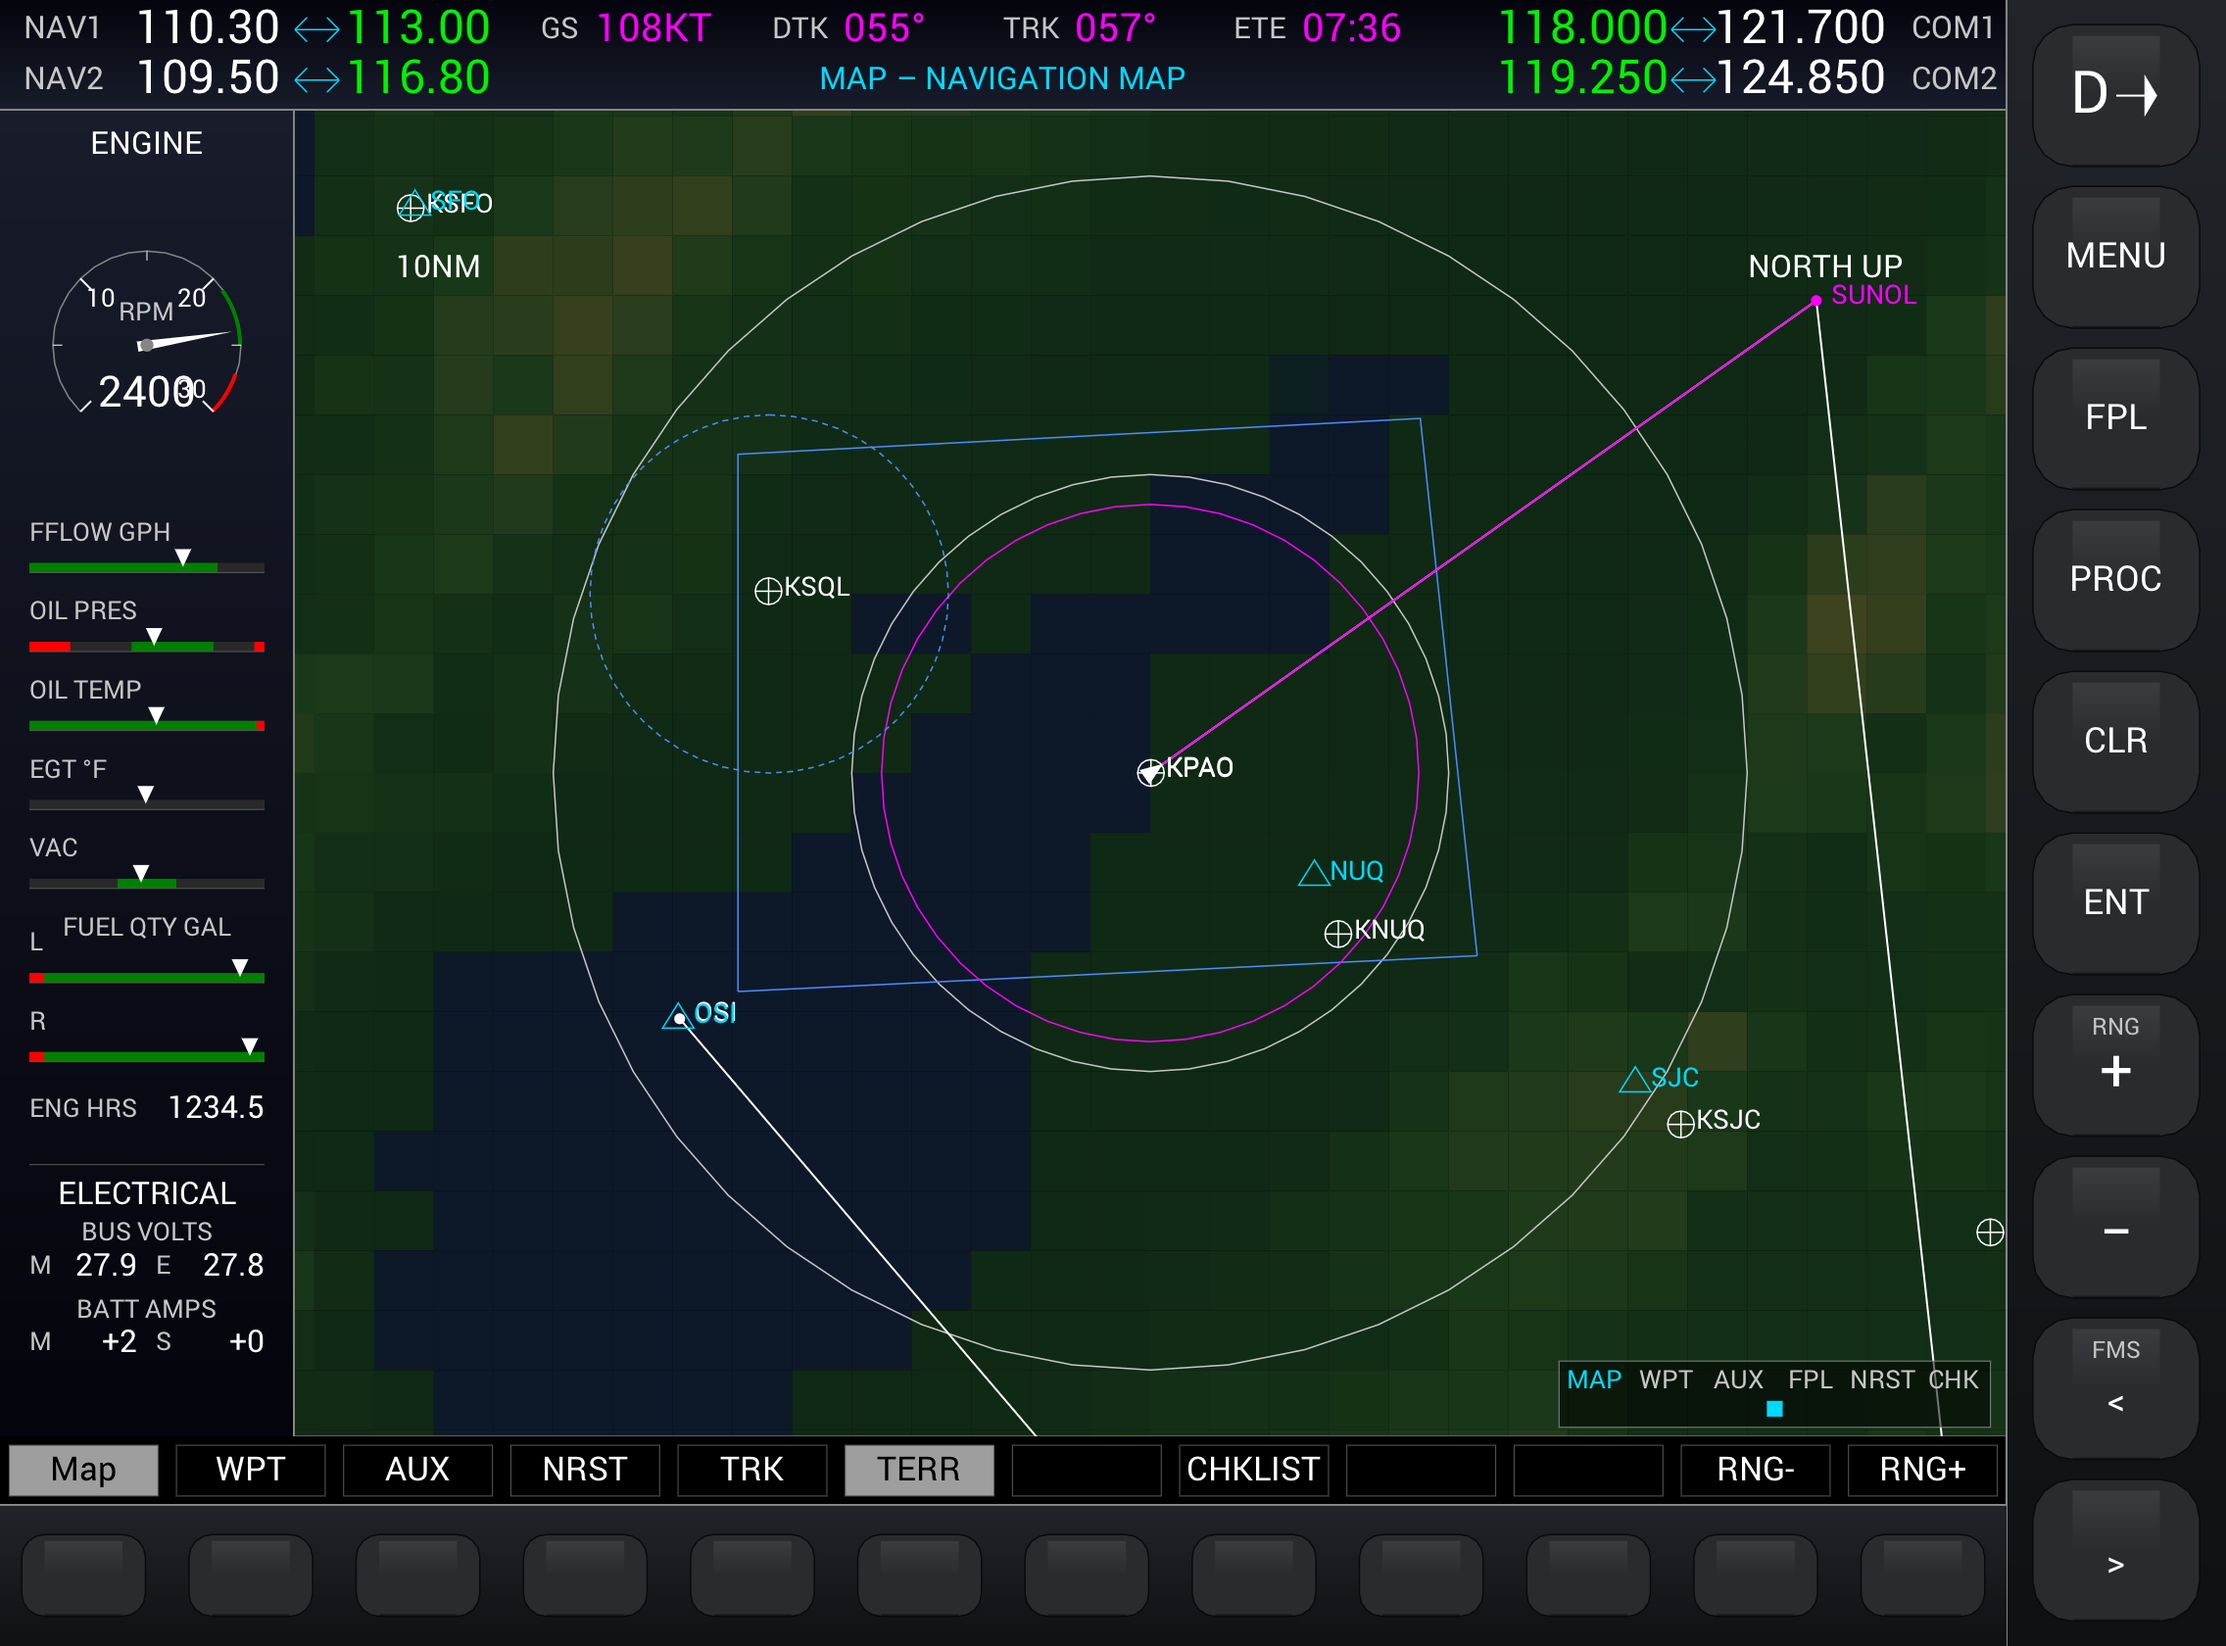
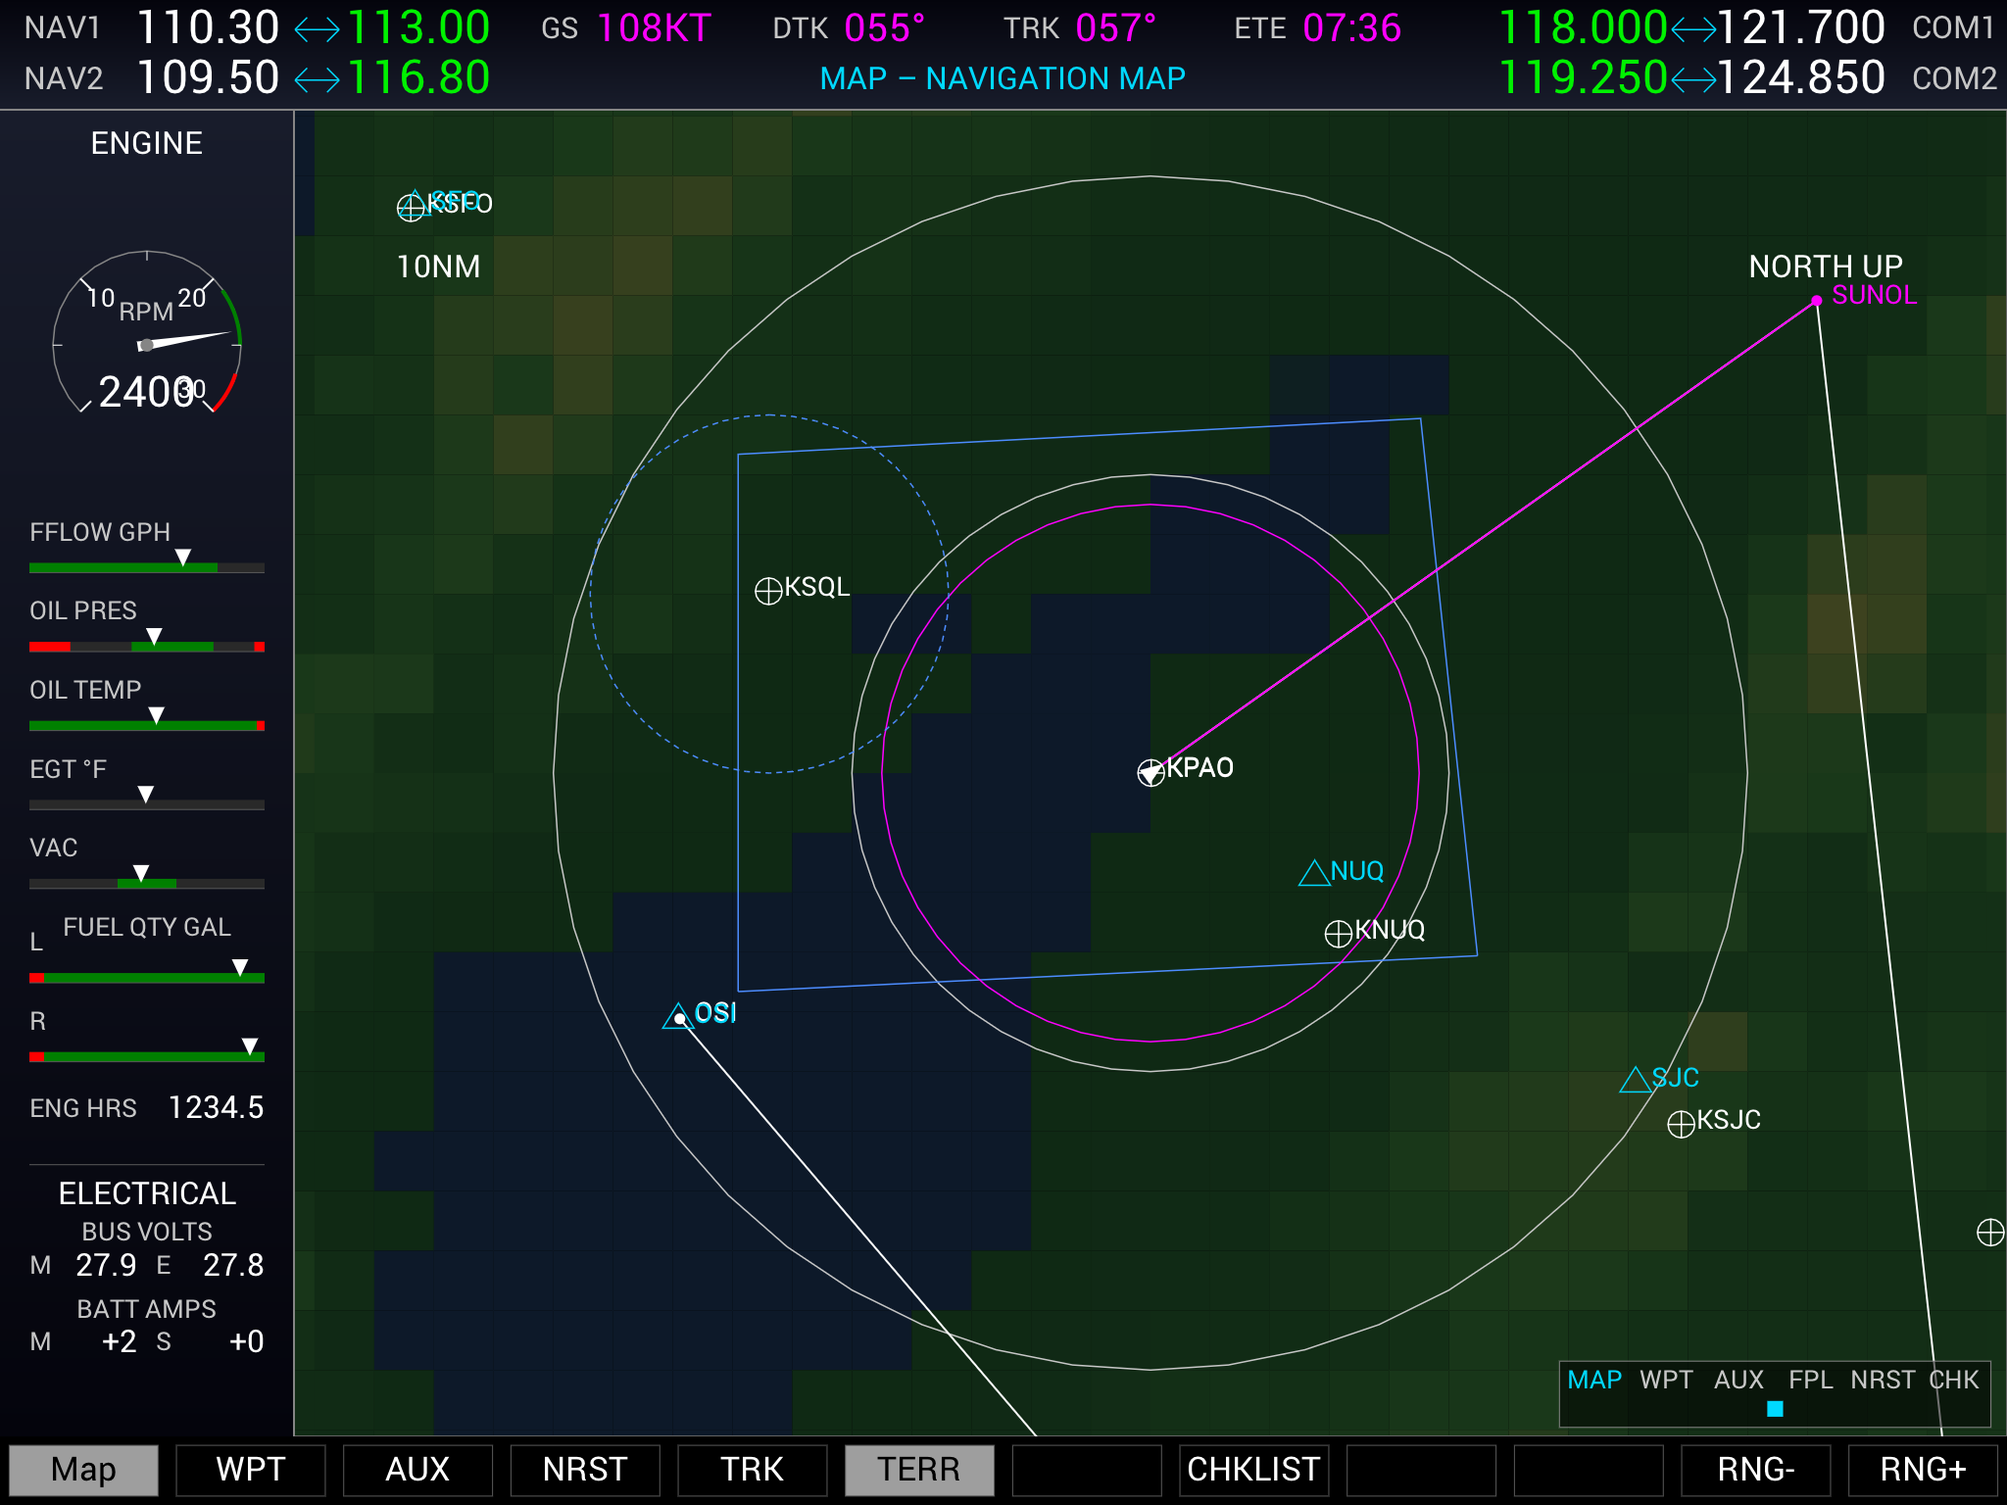
Add --no-bezel screenshot mode and refresh README images.
Screen-only captures omit the hardware key strips for cleaner docs, and the PFD/MFD README screenshots are regenerated without the bezel.

diff --git a/shell-standalone/src/main.cpp b/shell-standalone/src/main.cpp
@@ -245,15 +245,21 @@ void OnMenuToggleBezel(void* context, bool showBezel) {
 // (P6). PPM keeps this dependency-free; convert to PNG with `sips` afterwards.
 // Returns 0 on success. The mock state is advanced by `seconds` so we can pick a
 // clean, representative attitude (seconds = 0 is wings-level, no turbulence).
-int RunScreenshot(const char* path, double seconds, const char* state) {
+// When `fmsPlan` is non-null the mock flies that .fms route (same selector
+// rules as the interactive --fms-plan flag) instead of its built-in demo route.
+int RunScreenshot(const char* path, double seconds, const char* state,
+                  const char* fmsPlan, bool showBezel) {
   glfwWindowHint(GLFW_VISIBLE, GLFW_FALSE);
   glfwWindowHint(GLFW_CONTEXT_VERSION_MAJOR, 3);
   glfwWindowHint(GLFW_CONTEXT_VERSION_MINOR, 2);
   glfwWindowHint(GLFW_OPENGL_FORWARD_COMPAT, GLFW_TRUE);
   glfwWindowHint(GLFW_OPENGL_PROFILE, GLFW_OPENGL_CORE_PROFILE);
 
-  GLFWwindow* window = glfwCreateWindow(kSuiteWidth, kSuiteHeight, kWindowTitle,
-                                        nullptr, nullptr);
+  // Match the framebuffer to the bezel state: the full suite (screen + key
+  // strips) when the bezel is shown, the bare 4:3 screen when it is hidden.
+  GLFWwindow* window = glfwCreateWindow(SuiteWindowWidth(showBezel),
+                                        SuiteWindowHeight(showBezel),
+                                        kWindowTitle, nullptr, nullptr);
   if (!window) {
     std::fprintf(stderr, "Failed to create window\n");
     return 1;
@@ -279,6 +285,17 @@ int RunScreenshot(const char* path, double seconds, const char* state) {
   dataSource.setChecklistSource(&checklists);
   for (int i = 0; i < 400 && !navData.ready(); ++i) {
     std::this_thread::sleep_for(std::chrono::milliseconds(10));
+  }
+
+  // Optional .fms route: once it has loaded, fly it on the mock feed (the
+  // aircraft repositions to the route's first waypoint), matching the
+  // interactive shell's --fms-plan behavior.
+  if (fmsPlan != nullptr) {
+    avionics::FmsPlanStore plan(fmsPlan);
+    for (int i = 0; i < 400 && !plan.loaded(); ++i) {
+      std::this_thread::sleep_for(std::chrono::milliseconds(10));
+    }
+    if (plan.flightPlan().size() >= 2) dataSource.setRoute(plan.flightPlan());
   }
 
   avionics::AvionicsEngine engine(dataSource, renderer, kLabelMock);
@@ -310,7 +327,7 @@ int RunScreenshot(const char* path, double seconds, const char* state) {
     engine.update(seconds);
     engine.pressSoftkey(11);  // Alerts key
     for (int i = 0; i < 30; ++i) engine.update(1.0 / 60.0);
-    RenderSuite(renderer, engine, fbWidth, fbHeight);
+    RenderSuite(renderer, engine, fbWidth, fbHeight, showBezel);
   } else if (state != nullptr && std::strcmp(state, "menu") == 0) {
     // Exercise the softkey menu state machine: open the PFD Options submenu and
     // turn on a couple of display-option toggles so the captured frame shows the
@@ -321,7 +338,7 @@ int RunScreenshot(const char* path, double seconds, const char* state) {
     engine.pressSoftkey(1);  // "SVT" toggle on
     engine.pressSoftkey(2);  // "Wind" toggle on
     for (int i = 0; i < 30; ++i) engine.update(1.0 / 60.0);
-    RenderSuite(renderer, engine, fbWidth, fbHeight);
+    RenderSuite(renderer, engine, fbWidth, fbHeight, showBezel);
   } else if (state != nullptr && std::strcmp(state, "tmrref") == 0) {
     // Timer/References window: open it, start the timer, run it for a bit,
     // then set BARO minimums so the BARO MIN box and tape bug are captured.
@@ -342,7 +359,7 @@ int RunScreenshot(const char* path, double seconds, const char* state) {
       engine.pressBezelKey(avionics::BezelKey::FmsNext);
     }
     for (int i = 0; i < 30; ++i) engine.update(1.0 / 60.0);
-    RenderSuite(renderer, engine, fbWidth, fbHeight);
+    RenderSuite(renderer, engine, fbWidth, fbHeight, showBezel);
   } else if (state != nullptr && std::strcmp(state, "nrst") == 0) {
     // Nearest Airports window with the FMS cursor stepped to the second entry.
     engine.skipBoot();
@@ -351,7 +368,7 @@ int RunScreenshot(const char* path, double seconds, const char* state) {
     for (int i = 0; i < 30; ++i) engine.update(1.0 / 60.0);
     engine.pressBezelKey(avionics::BezelKey::FmsNext);
     for (int i = 0; i < 10; ++i) engine.update(1.0 / 60.0);
-    RenderSuite(renderer, engine, fbWidth, fbHeight);
+    RenderSuite(renderer, engine, fbWidth, fbHeight, showBezel);
   } else if (state != nullptr && std::strcmp(state, "ident") == 0) {
     // IDNT annunciation plus an in-progress squawk entry: press Ident at the
     // root (starts the 18 s annunciation), then type two digits of a new code
@@ -364,7 +381,7 @@ int RunScreenshot(const char* path, double seconds, const char* state) {
     engine.pressSoftkey(4);  // digit 4
     engine.pressSoftkey(5);  // digit 5
     for (int i = 0; i < 30; ++i) engine.update(1.0 / 60.0);
-    RenderSuite(renderer, engine, fbWidth, fbHeight);
+    RenderSuite(renderer, engine, fbWidth, fbHeight, showBezel);
   } else if (state != nullptr && std::strcmp(state, "map") == 0) {
     // Turn on the PFD inset map: open the Map/HSI submenu, then toggle "Inset".
     engine.skipBoot();
@@ -372,13 +389,13 @@ int RunScreenshot(const char* path, double seconds, const char* state) {
     engine.pressSoftkey(1);  // "Map/HSI" -> open submenu
     engine.pressSoftkey(2);  // "Inset" toggle on
     for (int i = 0; i < 30; ++i) engine.update(1.0 / 60.0);
-    RenderSuite(renderer, engine, fbWidth, fbHeight);
+    RenderSuite(renderer, engine, fbWidth, fbHeight, showBezel);
   } else if (state != nullptr && std::strcmp(state, "mfd") == 0) {
     // The MFD full-screen MAP page (its own window in normal operation).
     engine.setPage(avionics::DisplayPage::MultiFunctionDisplay);
     engine.skipBoot();
     engine.update(seconds);
-    RenderSuite(renderer, engine, fbWidth, fbHeight);
+    RenderSuite(renderer, engine, fbWidth, fbHeight, showBezel);
   } else if (state != nullptr && std::strncmp(state, "mfd", 3) == 0) {
     // MFD page screenshots. The state encodes a page-group softkey plus an
     // optional repeat count (pressing the active group's key again steps to
@@ -412,7 +429,7 @@ int RunScreenshot(const char* path, double seconds, const char* state) {
       for (int p = 0; p < 3; ++p) engine.pressBezelKey(avionics::BezelKey::Ent);
     }
     for (int i = 0; i < 30; ++i) engine.update(1.0 / 60.0);
-    RenderSuite(renderer, engine, fbWidth, fbHeight);
+    RenderSuite(renderer, engine, fbWidth, fbHeight, showBezel);
   } else if (state != nullptr && std::strcmp(state, "failed") == 0) {
     // Capture the connection-lost display: populate believable live values from
     // the mock feed, then serve them through a source that reports the link as
@@ -423,11 +440,11 @@ int RunScreenshot(const char* path, double seconds, const char* state) {
     avionics::AvionicsEngine failedEngine(stale, renderer, kSourceXPlane);
     failedEngine.skipBoot();
     failedEngine.update(1.0 / 60.0);
-    RenderSuite(renderer, failedEngine, fbWidth, fbHeight);
+    RenderSuite(renderer, failedEngine, fbWidth, fbHeight, showBezel);
   } else {
     engine.skipBoot();
     engine.update(seconds);
-    RenderSuite(renderer, engine, fbWidth, fbHeight);
+    RenderSuite(renderer, engine, fbWidth, fbHeight, showBezel);
   }
   glFinish();
 
@@ -567,11 +584,16 @@ int main(int argc, char** argv) {
 
   // Offscreen single-frame capture mode for development/iteration:
   //   avionics-standalone --screenshot out.ppm [--time SECONDS]
+  //       [--state STATE] [--fms-plan NAME] [--no-bezel]
+  // --no-bezel captures just the 4:3 avionics screen, omitting the hardware
+  // bezel key column and softkey strip.
   if (const char* shot = FlagValue(argc, argv, "--screenshot")) {
     const char* timeStr = FlagValue(argc, argv, "--time");
     const double seconds = timeStr ? std::atof(timeStr) : 0.0;
     const char* state = FlagValue(argc, argv, "--state");
-    const int rc = RunScreenshot(shot, seconds, state);
+    const char* fmsPlan = FlagValue(argc, argv, "--fms-plan");
+    const bool showBezel = !HasFlag(argc, argv, "--no-bezel");
+    const int rc = RunScreenshot(shot, seconds, state, fmsPlan, showBezel);
     glfwTerminate();
     return rc;
   }
